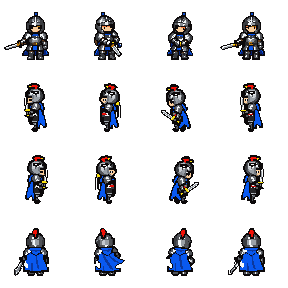
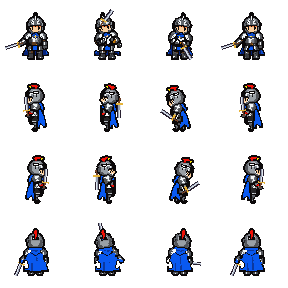
예시 기사 공격·마법을 몸만 다시 그리는 방식으로 교체

diff --git a/CLAUDE.md b/CLAUDE.md
@@ -47,7 +47,8 @@
 2. 사망 누운 프레임: 회전 중심을 몸 가운데로 바꿔 옆모습 머리 잘림 해결, 다시 그리기에서 누운 프레임(가로>1.4×세로)은 리그 그림 유지(`redraw._lying`). 쓰러지는 도중(30~65°)은 웅크린 자세 대신 곧게 편 몸을 기울임(조각남 해결). 사망도 몸이 서 있는 동안은 리그 머리 유지.
 3. 반짝이는 갑옷 얼룩: `_flatten`으로 일부 해결(4방향에서 약 55픽셀 정리). 더 하려면 재질별 음영 단계 수 제한 검토.
 4. 앞·뒤 걷기: 다리를 들어 올리던 걸 `squash`(다리를 엉덩이 쪽으로 줄임)로 바꿔 두 다리가 갈려 보임. 망토 자락은 `rig.LIMB_REACH=1.5`(팔·다리 굵기 1.5배 밖은 몸통)로 몸에 붙임. 지팡이 든 마법사로 확인해도 지팡이 안 쪼개짐. 남은 것: 옆모습 다시 그리기에서 가슴 무늬가 해골처럼 변함.
-5. 몬스터·용 등 사람형이 아닌 것: Quaternius CC0 3D 팩 + Blender 렌더 → 깊이/선화 ControlNet(Z-Image Fun Union이 depth/canny 지원) 방향으로 조사만 해 둠.
+5. 효과 칼(`effects.sword`)이 48px에서 날 색 두 줄이라 줄무늬처럼 보임. AI가 칠하던 칼보다 약함.
+6. 몬스터·용 등 사람형이 아닌 것: Quaternius CC0 3D 팩 + Blender 렌더 → 깊이/선화 ControlNet(Z-Image Fun Union이 depth/canny 지원) 방향으로 조사만 해 둠.
 
 ## 여러 캐릭터 시험 (기사만 보고 다듬지 말 것)
 개선 후 기사 말고도 아래 캐릭터로 정지 그림 + 동작을 만들어 깨지는 데가 없는지 볼 것
